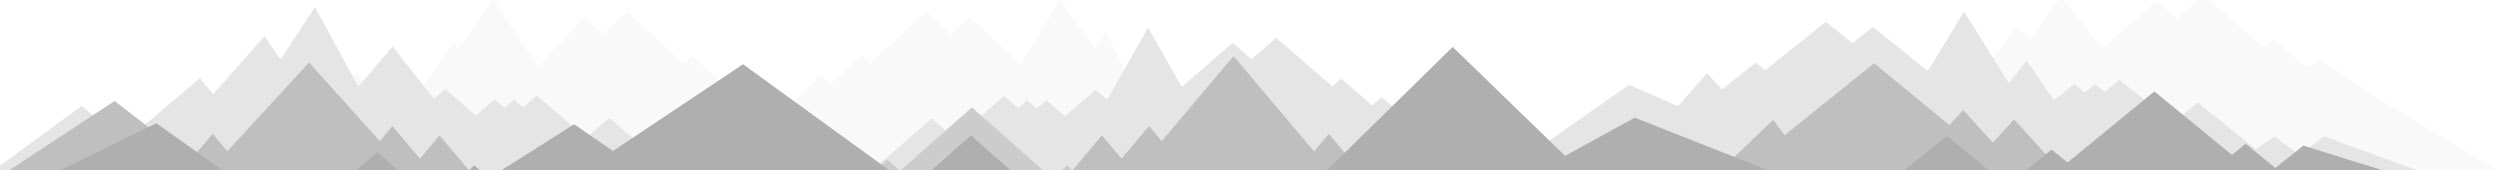
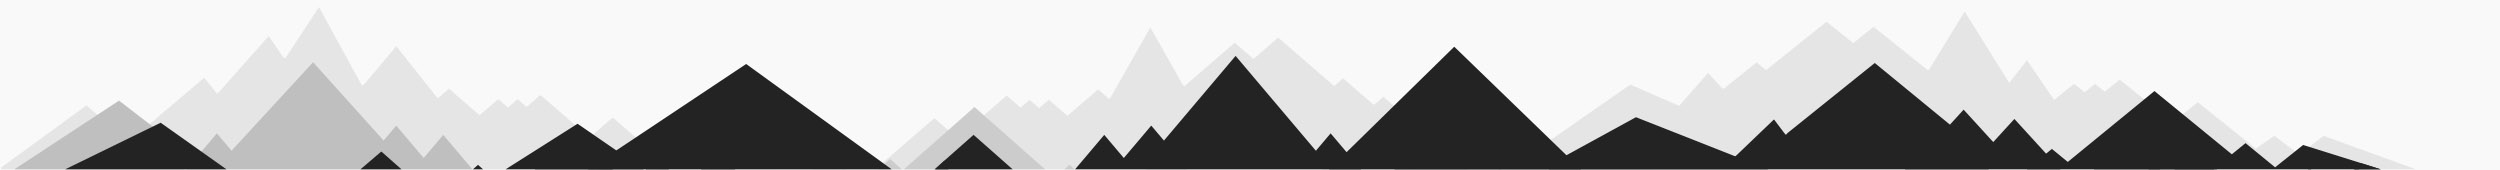
test color in navbar-botton

Changed region(s): [[0.0, 0.2941, 0.9672, 1.0], [0.0312, 0.6176, 0.0624, 0.7353]]

diff --git a/index.html b/index.html
@@ -354,7 +354,7 @@ but to also generate significant returns</p>
 </section>->
 <!--twitter-feed-end-->
 <footer class="footer_section" id="contact" style="
-    background: #afafaf;">
+    background: #232323;">
   <div class="container">
     <section class="main-section contact" id="contact">
       <div class="contact_section">

diff --git a/static/css/style.css b/static/css/style.css
@@ -187,7 +187,7 @@ p{
 	-webkit-transition:all 0.2s ease-in-out;	
 	}
 .nav ul li a:hover{
-	color:#49b5e7;
+	color:#43843e;
 	}
 	
 
